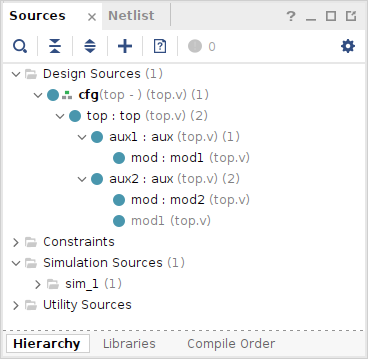
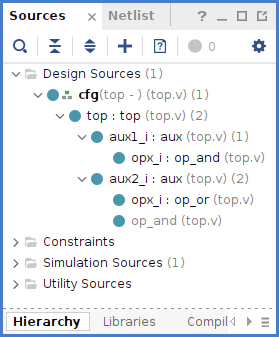
vlog_conf: updated after the addition of vhdl_conf

Changed region(s): [[0.0, 0.0, 1.0, 1.0], [0.6308, 0.1187, 0.7742, 0.178]]

diff --git a/vlog_conf/README.md b/vlog_conf/README.md
@@ -1,46 +1,26 @@
 # Verilog Configuration
 
-A configuration is employed to specify the source description to be used by one/all the instance/s of a module in a design.
+A configuration is employed to specify the module/source to be used by one/all the instance/s of a module in a design.
 
+Syntax:
 ```verilog
-config cfg;
-  design top;                     // top-level
-  instance top.aux2.mod use mod2; // use cell to replace all the instances
+config CONFIG_NAME;
+  design [ LIB_NAME. ]TOP;
+  [ default liblist LIB_NAME LIB_NAME ...; ]
+  [ instance_or_cell INSTANCE_OR_CELL_NAME location; ]
 endconfig
 
-module top (
-  input  in1,
-  input  in2,
-  output out1,
-  output out2
-);
-
-  aux aux1 (.in1(in1), .in2(in2), .out(out1));
-  aux aux2 (.in1(in1), .in2(in2), .out(out2));
-
-endmodule
-
-module aux (input in1, input in2, output out);
-
-  mod1 mod (.in1(in1), .in2(in2), .out(out));
-
-endmodule
-
-module mod1 (input in1, input in2, output out);
-
-  assign out = in1 & in2;
-
-endmodule
-
-module mod2 (input in1, input in2, output out);
-
-  assign out = in1 | in2;
-
-endmodule
+instance_or_cell = instance | cell
+location = liblist LIB_NAME | use what_to_use
+what_to_use = [ LIB_NAME. ]instance [ : CONFIG_NAME ] | CONFIG_NAME
 ```
 
+Example code [here](top.v).
+
 The applied configuration can be appreciated under the Design Sources, as well as the replaced module
+
 ![Sources](images/sources.png)
 
-After the elaboration, you can appreciate how the second AND gate was replaced by an OR gate
+After the elaboration, you can appreciate how the second AND cell was replaced by an OR cell
+
 ![Elaboration](images/elaboration.png)
